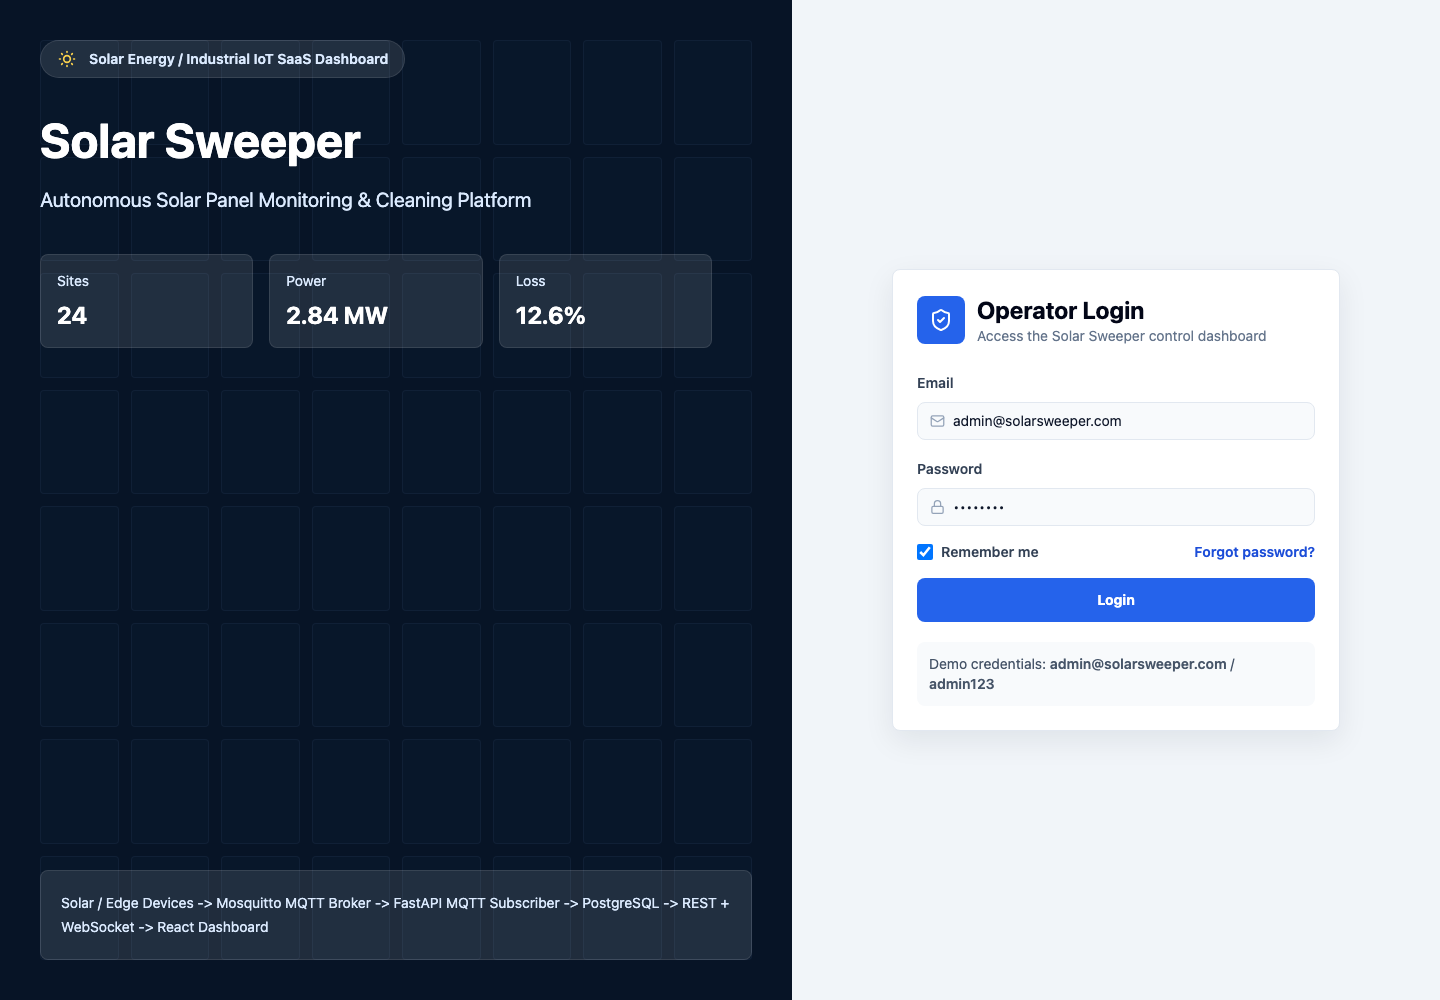
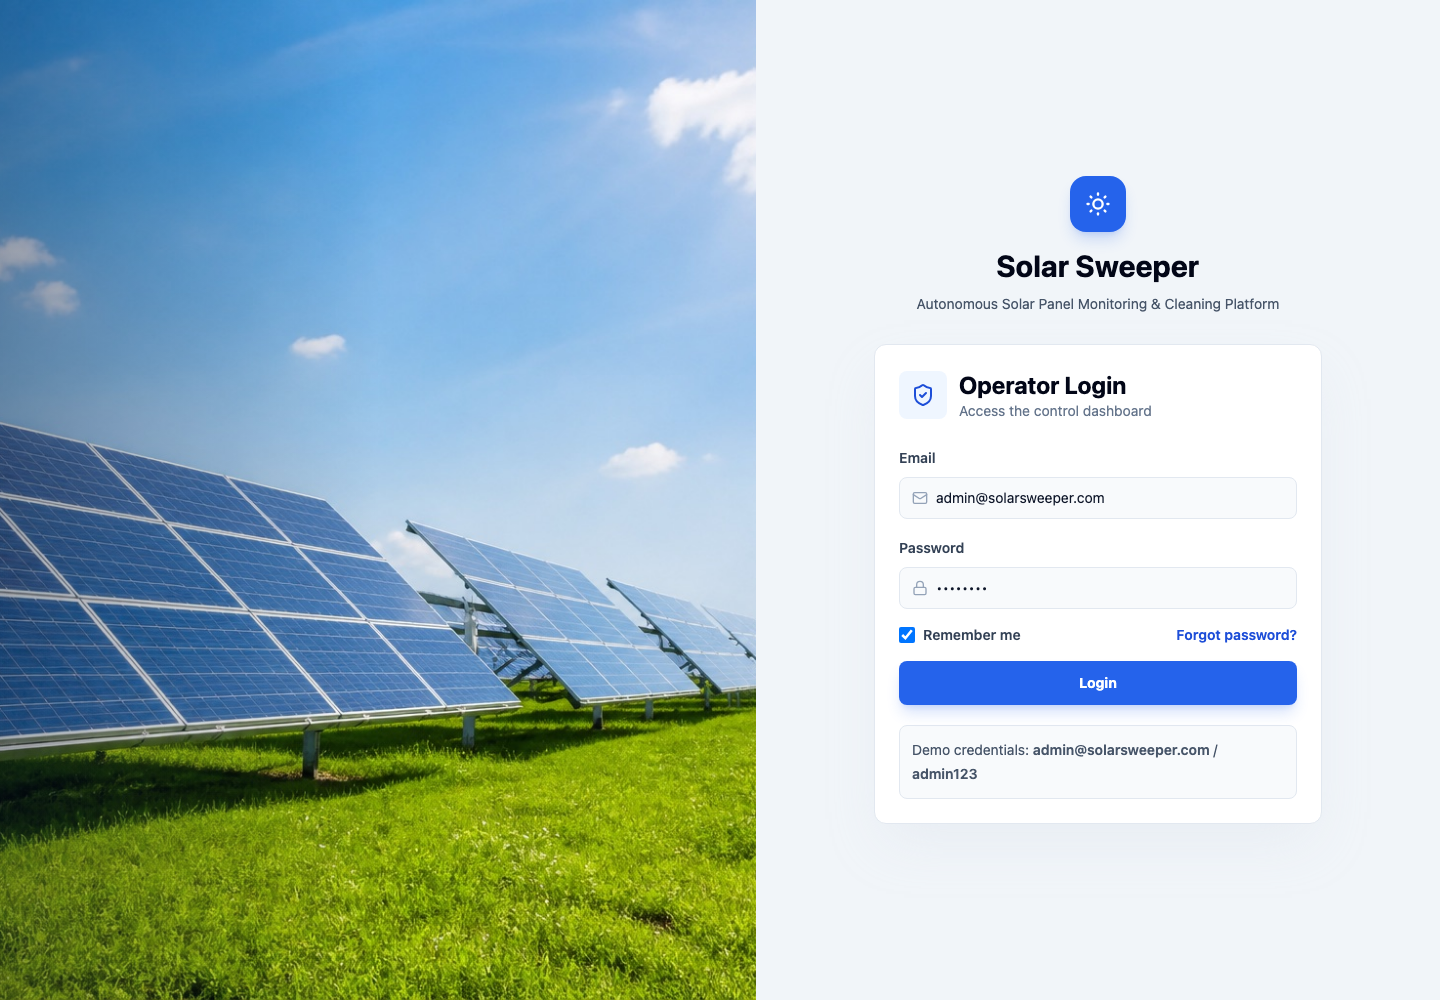
Improve login page hero

diff --git a/src/pages/LoginPage.tsx b/src/pages/LoginPage.tsx
@@ -1,6 +1,7 @@
 import { Lock, Mail, ShieldCheck, SunMedium } from "lucide-react";
 import { FormEvent, useState } from "react";
 import { Navigate, useLocation, useNavigate } from "react-router-dom";
+import solarFieldImage from "../assets/solar-field-login.jpg";
 import { useAuth } from "../hooks/useAuth";
 import { useToast } from "../hooks/useToast";
 
@@ -36,113 +37,97 @@ export function LoginPage() {
   }
 
   return (
-    <main className="grid min-h-screen bg-slate-100 lg:grid-cols-[1.1fr_0.9fr]">
-      <section className="relative hidden overflow-hidden bg-navy-900 p-10 text-white lg:flex lg:flex-col lg:justify-between">
-        <div className="absolute inset-0 opacity-20">
-          <div className="grid h-full grid-cols-8 gap-3 p-10">
-            {Array.from({ length: 64 }, (_, index) => (
-              <div key={index} className="rounded border border-blue-300/30 bg-blue-400/10" />
-            ))}
-          </div>
-        </div>
-        <div className="relative">
-          <div className="inline-flex items-center gap-3 rounded-full border border-white/10 bg-white/10 px-4 py-2 text-sm font-semibold text-blue-100">
-            <SunMedium className="h-5 w-5 text-amber-300" />
-            Solar Energy / Industrial IoT SaaS Dashboard
-          </div>
-          <h1 className="mt-8 max-w-2xl text-5xl font-bold leading-tight">Solar Sweeper</h1>
-          <p className="mt-4 max-w-xl text-xl text-blue-100">
-            Autonomous Solar Panel Monitoring & Cleaning Platform
-          </p>
-          <div className="mt-10 grid max-w-2xl grid-cols-3 gap-4">
-            <DemoMetric label="Sites" value="24" />
-            <DemoMetric label="Power" value="2.84 MW" />
-            <DemoMetric label="Loss" value="12.6%" />
-          </div>
-        </div>
-        <div className="relative rounded-lg border border-white/10 bg-white/10 p-5 text-sm leading-6 text-blue-100">
-          Solar / Edge Devices -&gt; Mosquitto MQTT Broker -&gt; FastAPI MQTT Subscriber -&gt; PostgreSQL -&gt; REST + WebSocket -&gt; React Dashboard
-        </div>
+    <main className="grid min-h-screen bg-slate-100 lg:grid-cols-[1.05fr_0.95fr]">
+      <section className="relative hidden overflow-hidden bg-navy-900 lg:block">
+        <img
+          src={solarFieldImage}
+          alt="Solar panel array in a green field"
+          className="h-full min-h-screen w-full object-cover"
+        />
+        <div className="absolute inset-0 bg-gradient-to-r from-navy-900/35 via-transparent to-transparent" />
       </section>
-      <section className="flex items-center justify-center px-4 py-10">
-        <div className="w-full max-w-md rounded-lg border border-slate-200 bg-white p-6 shadow-card">
-          <div className="mb-6 flex items-center gap-3">
-            <div className="rounded-lg bg-blue-600 p-3 text-white">
-              <ShieldCheck className="h-6 w-6" />
+      <section className="flex items-center justify-center px-4 py-10 sm:px-8">
+        <div className="w-full max-w-md">
+          <div className="mb-7 text-center">
+            <div className="mx-auto flex h-14 w-14 items-center justify-center rounded-2xl bg-blue-600 text-white shadow-lg shadow-blue-600/20">
+              <SunMedium className="h-7 w-7" />
             </div>
-            <div>
-              <h2 className="text-2xl font-bold text-slate-950">Operator Login</h2>
-              <p className="text-sm text-slate-500">Access the Solar Sweeper control dashboard</p>
-            </div>
+            <h1 className="mt-4 text-3xl font-bold text-slate-950">Solar Sweeper</h1>
+            <p className="mt-2 text-sm leading-6 text-slate-600">
+              Autonomous Solar Panel Monitoring & Cleaning Platform
+            </p>
           </div>
-          <form onSubmit={handleSubmit} className="space-y-4">
-            <label className="block">
-              <span className="text-sm font-semibold text-slate-700">Email</span>
-              <span className="mt-2 flex items-center rounded-lg border border-slate-200 bg-slate-50 px-3 py-2">
-                <Mail className="h-4 w-4 text-slate-400" />
-                <input
-                  value={email}
-                  onChange={(event) => setEmail(event.target.value)}
-                  type="email"
-                  className="ml-2 w-full bg-transparent text-sm outline-none"
-                  autoComplete="email"
-                />
-              </span>
-            </label>
-            <label className="block">
-              <span className="text-sm font-semibold text-slate-700">Password</span>
-              <span className="mt-2 flex items-center rounded-lg border border-slate-200 bg-slate-50 px-3 py-2">
-                <Lock className="h-4 w-4 text-slate-400" />
-                <input
-                  value={password}
-                  onChange={(event) => setPassword(event.target.value)}
-                  type="password"
-                  className="ml-2 w-full bg-transparent text-sm outline-none"
-                  autoComplete="current-password"
-                />
-              </span>
-            </label>
-            <div className="flex items-center justify-between gap-4 text-sm">
-              <label className="flex items-center gap-2 font-semibold text-slate-700">
-                <input
-                  type="checkbox"
-                  checked={remember}
-                  onChange={(event) => setRemember(event.target.checked)}
-                  className="h-4 w-4 rounded border-slate-300 text-blue-600"
-                />
-                Remember me
-              </label>
-              <button
-                type="button"
-                onClick={() => addToast("Password reset", "A demo reset link would be sent by the backend.", "info")}
-                className="font-semibold text-blue-700 hover:text-blue-800"
-              >
-                Forgot password?
-              </button>
+
+          <div className="rounded-xl border border-slate-200 bg-white p-6 shadow-2xl shadow-slate-200/70">
+            <div className="mb-6 flex items-center gap-3">
+              <div className="rounded-lg bg-blue-50 p-3 text-blue-700">
+                <ShieldCheck className="h-6 w-6" />
+              </div>
+              <div>
+                <h2 className="text-2xl font-bold text-slate-950">Operator Login</h2>
+                <p className="text-sm text-slate-500">Access the control dashboard</p>
+              </div>
             </div>
-            {error ? <p className="rounded-lg bg-red-50 px-3 py-2 text-sm font-semibold text-red-700">{error}</p> : null}
-            <button
-              type="submit"
-              className="w-full rounded-lg bg-blue-600 px-4 py-3 text-sm font-bold text-white hover:bg-blue-700"
-            >
-              Login
-            </button>
-          </form>
-          <div className="mt-5 rounded-lg bg-slate-50 p-3 text-sm text-slate-600">
-            Demo credentials: <span className="font-semibold">admin@solarsweeper.com</span> /{" "}
-            <span className="font-semibold">admin123</span>
+            <form onSubmit={handleSubmit} className="space-y-4">
+              <label className="block">
+                <span className="text-sm font-semibold text-slate-700">Email</span>
+                <span className="mt-2 flex items-center rounded-lg border border-slate-200 bg-slate-50 px-3 py-2.5 transition focus-within:border-blue-400 focus-within:bg-white focus-within:ring-2 focus-within:ring-blue-100">
+                  <Mail className="h-4 w-4 flex-none text-slate-400" />
+                  <input
+                    value={email}
+                    onChange={(event) => setEmail(event.target.value)}
+                    type="email"
+                    className="ml-2 w-full min-w-0 bg-transparent text-sm outline-none"
+                    autoComplete="email"
+                  />
+                </span>
+              </label>
+              <label className="block">
+                <span className="text-sm font-semibold text-slate-700">Password</span>
+                <span className="mt-2 flex items-center rounded-lg border border-slate-200 bg-slate-50 px-3 py-2.5 transition focus-within:border-blue-400 focus-within:bg-white focus-within:ring-2 focus-within:ring-blue-100">
+                  <Lock className="h-4 w-4 flex-none text-slate-400" />
+                  <input
+                    value={password}
+                    onChange={(event) => setPassword(event.target.value)}
+                    type="password"
+                    className="ml-2 w-full min-w-0 bg-transparent text-sm outline-none"
+                    autoComplete="current-password"
+                  />
+                </span>
+              </label>
+              <div className="flex items-center justify-between gap-4 text-sm">
+                <label className="flex items-center gap-2 font-semibold text-slate-700">
+                  <input
+                    type="checkbox"
+                    checked={remember}
+                    onChange={(event) => setRemember(event.target.checked)}
+                    className="h-4 w-4 rounded border-slate-300 text-blue-600"
+                  />
+                  Remember me
+                </label>
+                <button
+                  type="button"
+                  onClick={() => addToast("Password reset", "A demo reset link would be sent by the backend.", "info")}
+                  className="font-semibold text-blue-700 hover:text-blue-800"
+                >
+                  Forgot password?
+                </button>
+              </div>
+              {error ? <p className="rounded-lg bg-red-50 px-3 py-2 text-sm font-semibold text-red-700">{error}</p> : null}
+              <button
+                type="submit"
+                className="w-full rounded-lg bg-blue-600 px-4 py-3 text-sm font-bold text-white shadow-lg shadow-blue-600/20 hover:bg-blue-700"
+              >
+                Login
+              </button>
+            </form>
+            <div className="mt-5 rounded-lg border border-slate-200 bg-slate-50 p-3 text-sm leading-6 text-slate-600">
+              Demo credentials: <span className="font-semibold">admin@solarsweeper.com</span> /{" "}
+              <span className="font-semibold">admin123</span>
+            </div>
           </div>
         </div>
       </section>
     </main>
-  );
-}
-
-function DemoMetric({ label, value }: { label: string; value: string }) {
-  return (
-    <div className="rounded-lg border border-white/10 bg-white/10 p-4">
-      <p className="text-sm text-blue-100">{label}</p>
-      <p className="mt-2 text-2xl font-bold">{value}</p>
-    </div>
   );
 }
